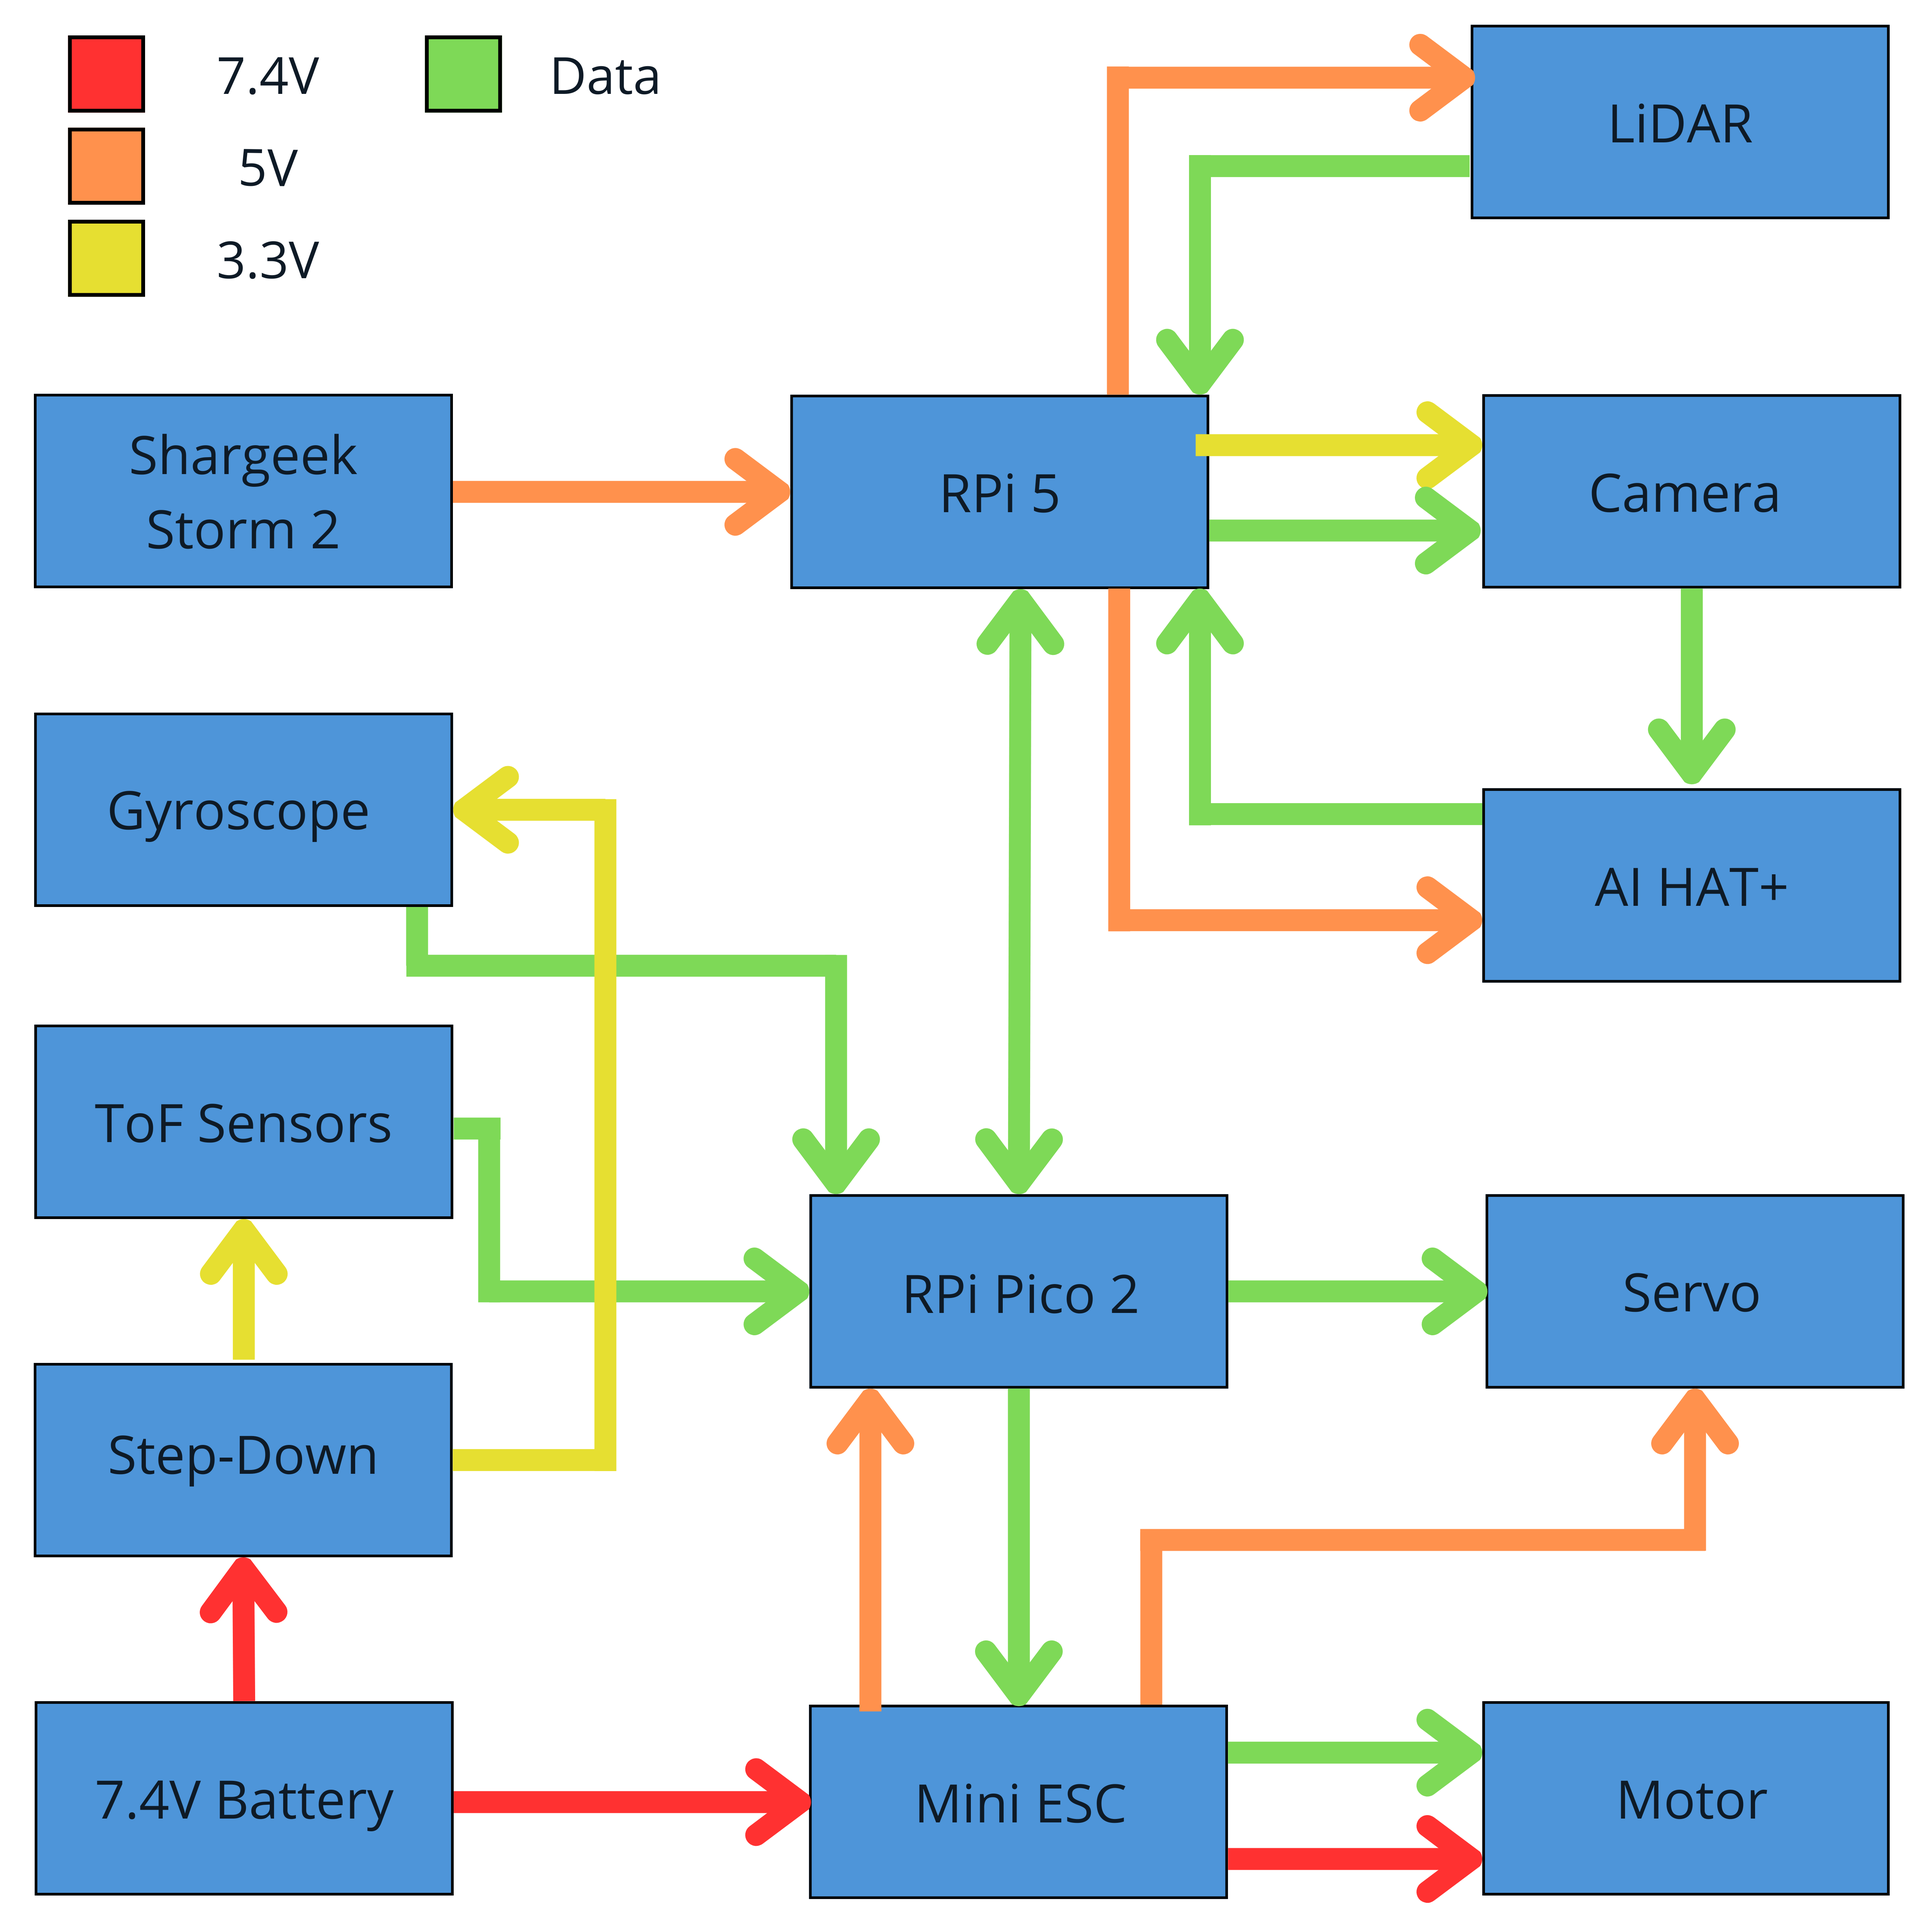
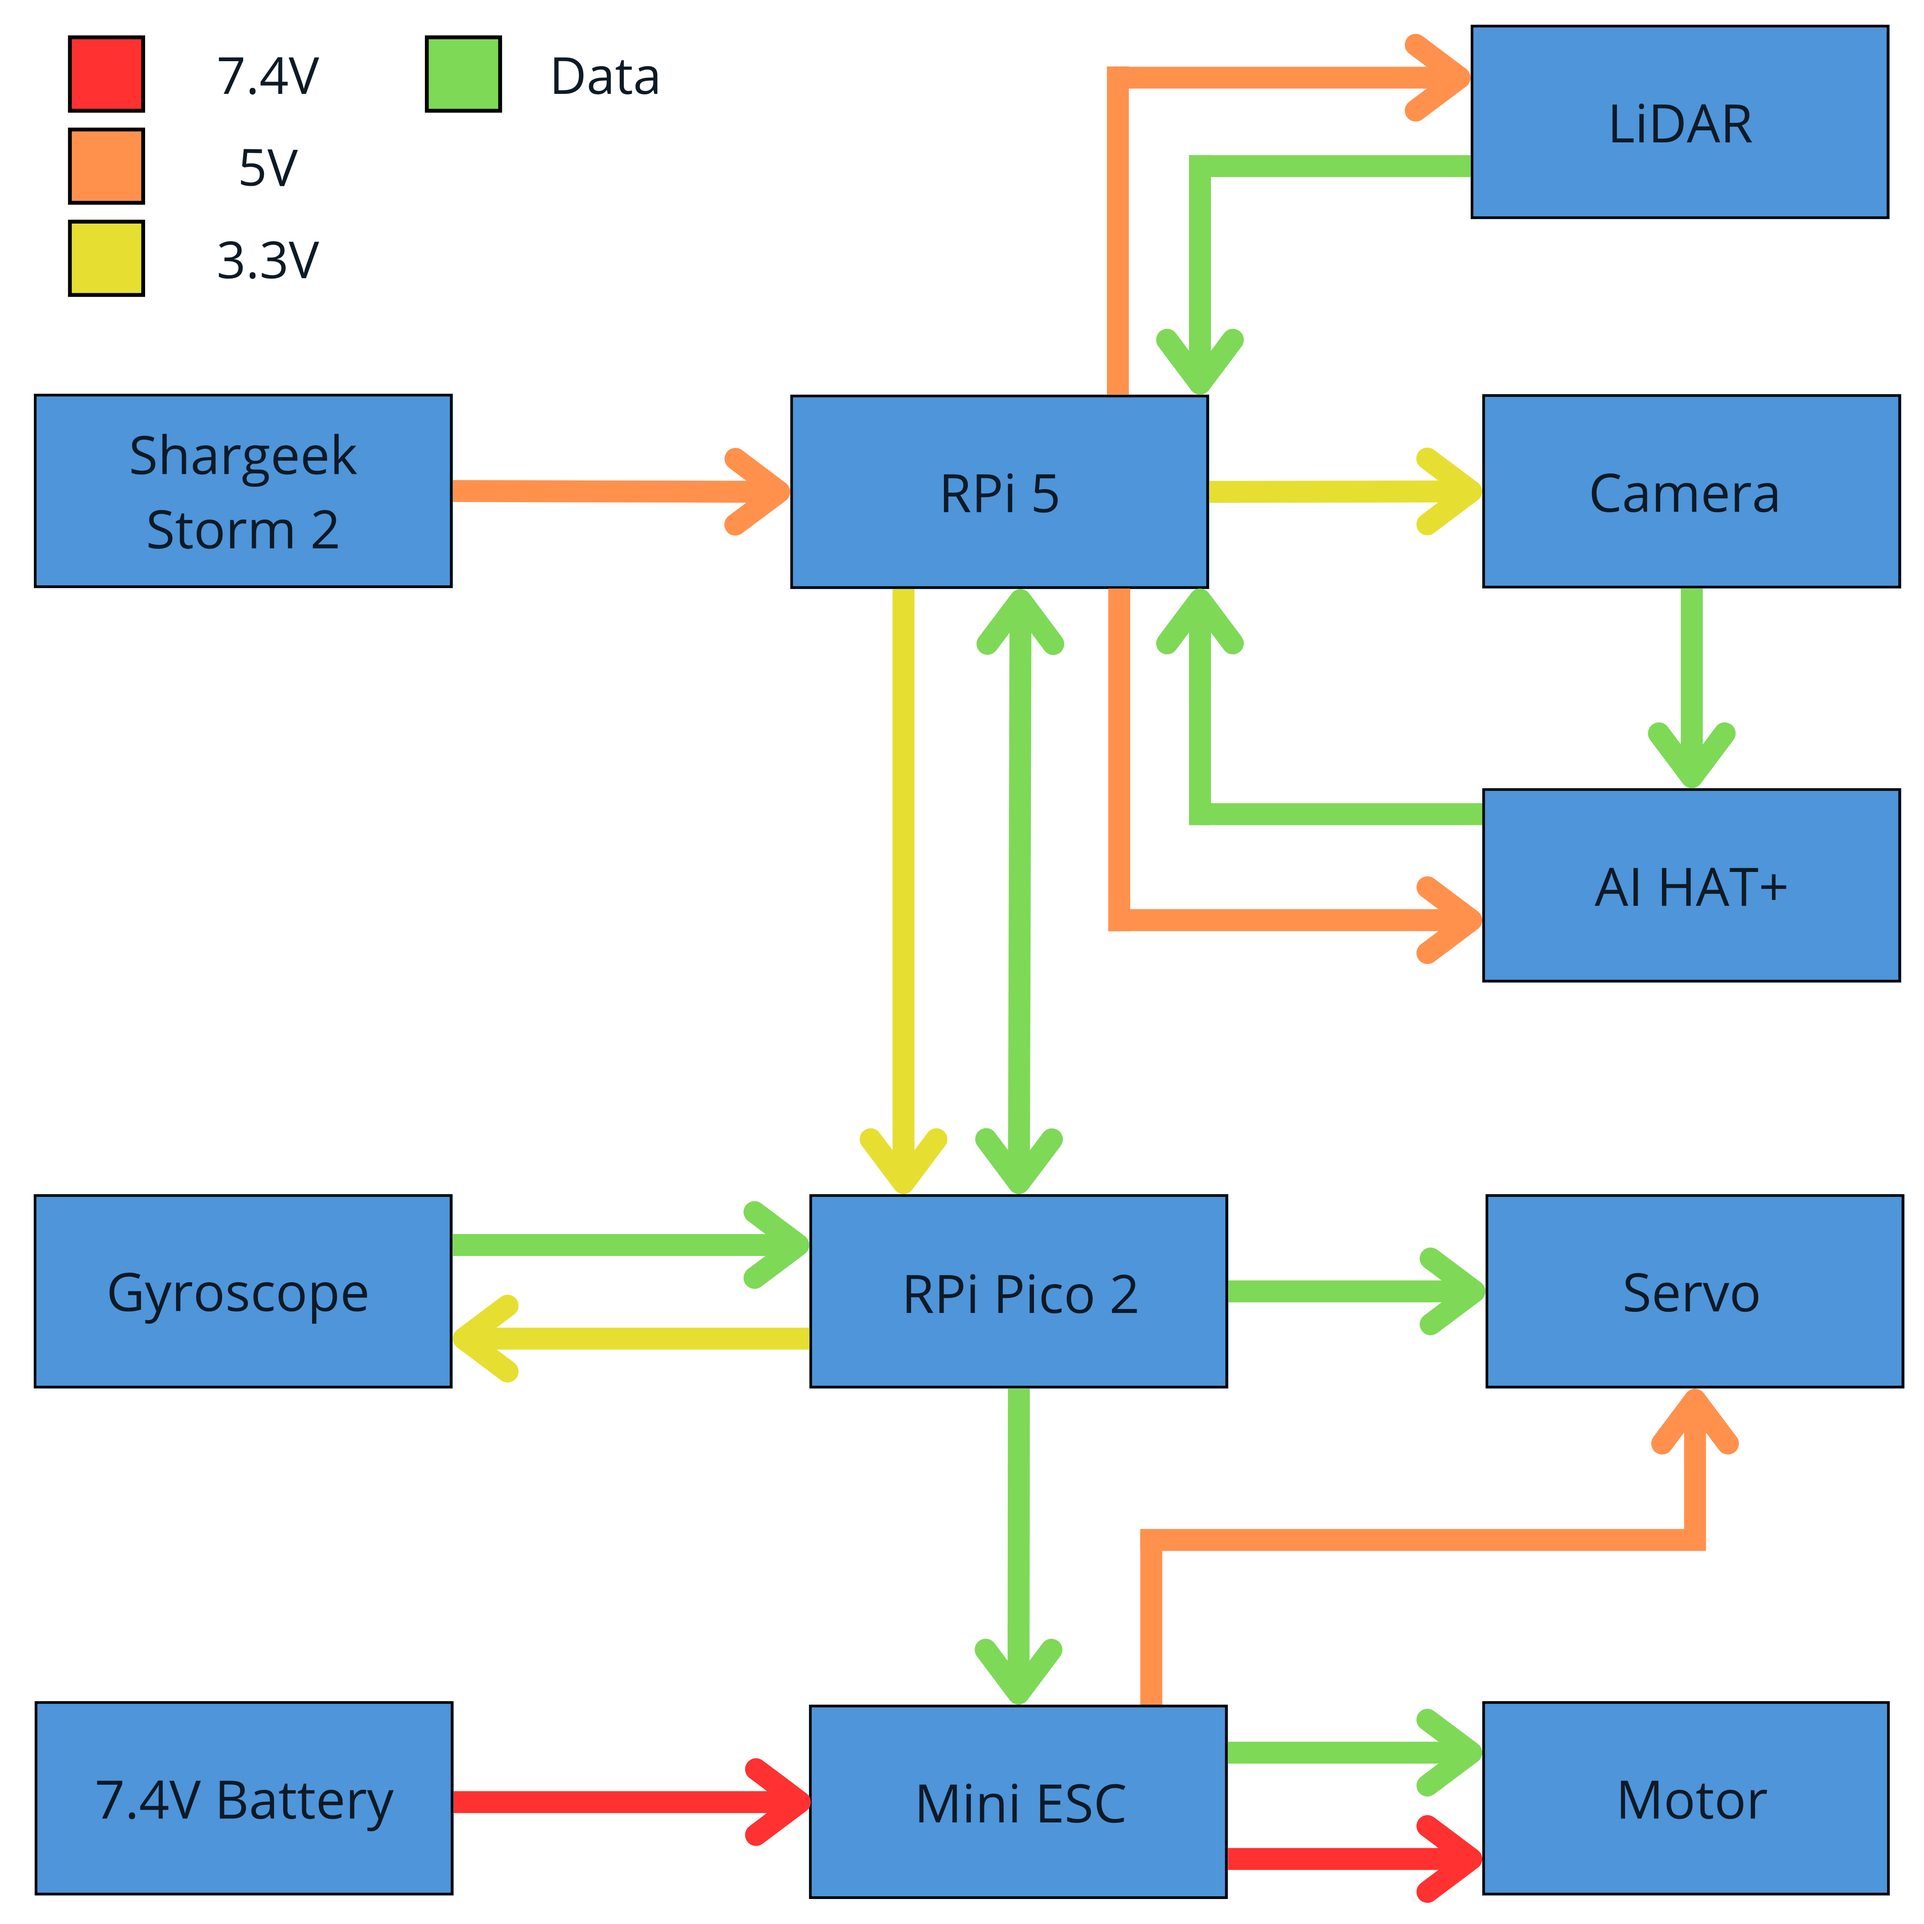
doc: re-estructured main README.md

Changed region(s): [[0.0, 0.312, 0.4992, 0.8736], [0.624, 0.1872, 0.78, 0.312], [0.4368, 0.7176, 0.468, 0.9048]]

diff --git a/README.md b/README.md
@@ -2,7 +2,24 @@
 
 1. **[Introducción](#introduccion)**
 2. **[Descripción de la Mecánica](v-photos/prototype1/README.md)**
-3. **[Lista de Componentes](#lista-de-componentes)**
+3. **[Código](devices/README.md)**
+   1. **[Dispositivos](/devices)**
+      1. [Raspberry Pi 5](devices/raspberry-pi-5/README.md)
+      2. [Raspberry Pi Pico 2 WH](devices/raspberry-pi-pico-2w/README.md)
+         1. [CircuitPython](devices/raspberry-pi-pico-2w/src/circuit-python/README.md)
+         2. [MicroPython](devices/raspberry-pi-pico-2w/src/micro-python/README.md)
+   2. **[Lenguajes de Programación](#lenguajes-de-programacion)**
+      1. [Python](#python)
+      2. [MicroPython](#micropython)
+      3. [CircuitPython](#circuitpython)
+   3. **[Librerías](#librerias)**
+      1. [Ultralytics YOLO](#ultralytics-yolo)
+      2. [OpenCV](#opencv)
+      3. [NumPy](#numpy)
+      4. [PyTorch](#pytorch)
+      5. [PiCamera2](#picamera-2)
+      6. [Hailo Platform](#hailo-platform)
+4. **[Lista de Componentes](#lista-de-componentes)**
     1. [Raspberry Pi 5](#componentes-raspberry-pi-5)
     2. [Raspberry Pi Camera Module 3 Wide](#componentes-raspberry-pi-camera-module-3-wide)
     3. [Raspberry Pi AI HAT+ (26 TOPS)](#componentes-raspberry-pi-ai-hat-26-tops)
@@ -15,28 +32,12 @@
     10. [INJORA 7KG 2065 Micro Servo](#componentes-injora-7kg-2065-micro-servo)
     11. [HiLetgo Time-of-Flight Sensor VL53L0X](#sensor-tof-hiletgo)
     12. [9-Axis IMU Gyroscope GY-BNO085](#gyroscope-gy-bno085)
-4. **[Esquemas y Diagramas](#esquemas)**
-    1. [Esquemas de Conexiones](schemes/detailed-klevor-wiring-diagram.png)
-    2. [Diagrama de Flujo](schemes/open-challenge-flowchart.png)
-5. **[Lenguajes de Programación](#lenguajes-de-programacion)**
-    1. [Python](#python)
-    2. [MicroPython](#micropython)
-    3. [CircuitPython](#circuitpython)
-6. **[Código](devices/README.md)**
-    1. [Raspberry Pi 5](devices/raspberry-pi-5/README.md)
-    2. [Raspberry Pi Pico 2 WH](devices/raspberry-pi-pico-2w/README.md)
-        1. [CircuitPython](devices/raspberry-pi-pico-2w/src/circuit-python/README.md)
-        2. [MicroPython](devices/raspberry-pi-pico-2w/src/micro-python/README.md)
-7. **[Librerías](#librerias)**
-    1. [Ultralytics YOLO](#ultralytics-yolo)
-    2. [OpenCV](#opencv)
-    3. [NumPy](#numpy)
-    4. [PyTorch](#pytorch)
-    5. [PiCamera2](#picamera-2)
-    6. [Hailo Platform](#hailo-platform)
-8. **[Fotos del equipo](t-photos/README.md)**
-9. **[Vídeos](video/README.md)**
-10. **[Recursos Externos](#recursos-externos)**
+5. **[Esquemas y Diagramas](#esquemas)**
+   1. [Esquemas de Conexiones](schemes/prototype1/wiring-diagram.png)
+   2. [Diagrama de Flujo](schemes/prototype2/open-challenge-flowchart.png)
+6. **[Fotos del equipo](t-photos/README.md)**
+7. **[Vídeos](video/README.md)**
+8. **[Recursos Externos](#recursos-externos)**
 
 *NOTA: Este listado contiene todo el contenido respectivo al desarrollo de
 Klevor; sin embargo, no todo está presente en este README.md, asegúrese de hacer
